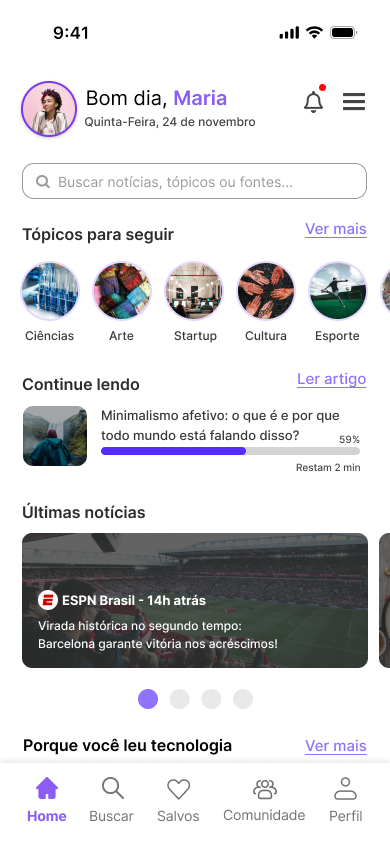
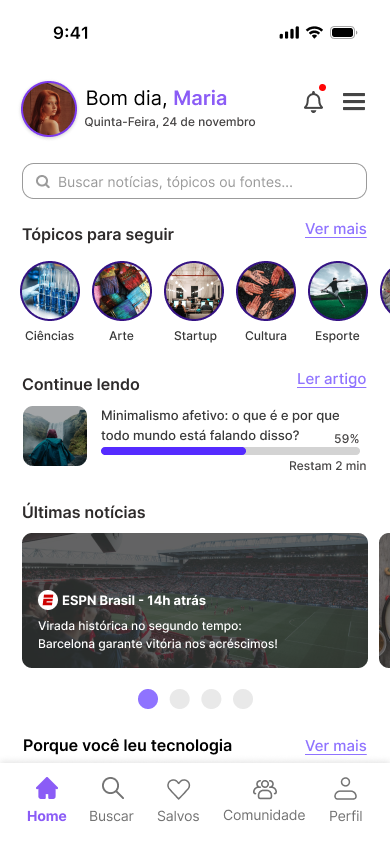
img

diff --git a/lib/projects.ts b/lib/projects.ts
@@ -14,6 +14,7 @@ export interface Project {
     goals: string[]
     painPoints: string[]
     quote: string
+    image: string
   }
   research: {
     methods: string[]
@@ -56,7 +57,8 @@ export const projects: Project[] = [
         "Falta organização entre infrairação e informação objetiva",
         "Interfaces genéricas reduzem a confiança na marca"
       ],
-      quote: "Quando estou procurando um imóvel ou referência de espaço, eu quero sentir clareza, confiança e inspiração logo nos primeiros segundos."
+      quote: "Quando estou procurando um imóvel ou referência de espaço, eu quero sentir clareza, confiança e inspiração logo nos primeiros segundos.",
+      image: "/Personas/persona_archiPlace.jpg"
     },
     research: {
       methods: [
@@ -73,10 +75,11 @@ export const projects: Project[] = [
       ]
     },
     wireframes: [
-      "/ArchiPlace/wireframe_baixo.png"
+      "/ArchiPlace/wireframe_low.png",
+      "/ArchiPlace/wireframe_low2.png"
     ],
     finalDesigns: [
-      "/ArchiPlace/MacBook Air (2022).png",
+      "/ArchiPlace/mockup_archiplace.png",
       "/ArchiPlace/spaces_archiplace.png",
       "/ArchiPlace/Team_archiPlace.png",
       "/ArchiPlace/Group 3.png"
@@ -127,7 +130,8 @@ export const projects: Project[] = [
         "Fotos não mostram bem os detalhes e caimento",
         "Processo de checkout demorado"
       ],
-      quote: "Quero saber exatamente de onde vem o que estou comprando e como foi feito."
+      quote: "Quero saber exatamente de onde vem o que estou comprando e como foi feito.",
+      image: "/placeholder-user.jpg"
     },
     research: {
       methods: [
@@ -144,6 +148,9 @@ export const projects: Project[] = [
       ]
     },
     wireframes: [
+      "/volare/wireframe_mobile (1).png",
+      "/volare/wireframe_mobile (2).png",
+      "/volare/wireframe_mobile (3).png",
       "/volare/wireframe_volare.png"
     ],
     finalDesigns: [
@@ -187,7 +194,8 @@ export const projects: Project[] = [
         "Dificuldade em validar a credibilidade de fontes rápidas",
         "Fadiga visual causada por interfaces excessivamente complexas"
       ],
-      quote: "Eu preciso de fatos reais e contexto, não de manchetes sensacionalistas feitas para o algoritmo."
+      quote: "Eu preciso de fatos reais e contexto, não de manchetes sensacionalistas feitas para o algoritmo.",
+      image: "/Personas/persona_newsFlow.jpg"
     },
     research: {
       methods: [
@@ -291,7 +299,8 @@ export const projects: Project[] = [
         "Demora na atualização do saldo de pontos",
         "Dificuldade em encontrar lojas próximas"
       ],
-      quote: "Eu adoro meu café do meu jeito, mas o app atual dificulta muito isso."
+      quote: "Eu adoro meu café do meu jeito, mas o app atual dificulta muito isso.",
+      image: "/Personas/persona_starbucks.jpg"
     },
     research: {
       methods: [
@@ -346,10 +355,11 @@ export const projects: Project[] = [
       ],
       painPoints: [
         "Falta de reviews confiáveis de serviços",
-        "Esquece datas de vermifugação",
+        "Esquece das datas de vermifugação",
         "Sente falta de uma comunidade local"
       ],
-      quote: "Meu cachorro é parte da família, quero o melhor para ele com o mínimo de complicação."
+      quote: "Meu cachorro é parte da família, quero o melhor para ele com o mínimo de complicação.",
+      image: "/Personas/persona_woofle.jpg"
     },
     research: {
       methods: [

diff --git a/components/project/project-persona.tsx b/components/project/project-persona.tsx
@@ -1,3 +1,4 @@
+import Image from "next/image"
 import { User, Target, AlertCircle, Quote, MapPin, Briefcase, Calendar } from "lucide-react"
 import type { Project } from "@/lib/projects"
 
@@ -28,8 +29,17 @@ export function ProjectPersona({ project }: ProjectPersonaProps) {
               
               <div className="relative z-10 space-y-8">
                 <div className="flex flex-col md:flex-row items-center gap-8">
-                  <div className="w-24 h-24 md:w-32 md:h-32 bg-secondary rounded-3xl flex items-center justify-center border border-border group-hover:rotate-3 transition-transform duration-500">
-                    <User className="w-12 h-12 md:w-16 md:h-16 text-foreground/20" />
+                  <div className="w-24 h-24 md:w-32 md:h-32 bg-secondary rounded-3xl flex items-center justify-center border border-border group-hover:rotate-3 transition-transform duration-500 overflow-hidden relative">
+                    {persona.image ? (
+                      <Image
+                        src={persona.image}
+                        alt={persona.name}
+                        fill
+                        className="object-cover"
+                      />
+                    ) : (
+                      <User className="w-12 h-12 md:w-16 md:h-16 text-foreground/20" />
+                    )}
                   </div>
                   <div className="text-center md:text-left">
                     <h3 className="text-3xl font-serif font-medium text-foreground mb-2">
